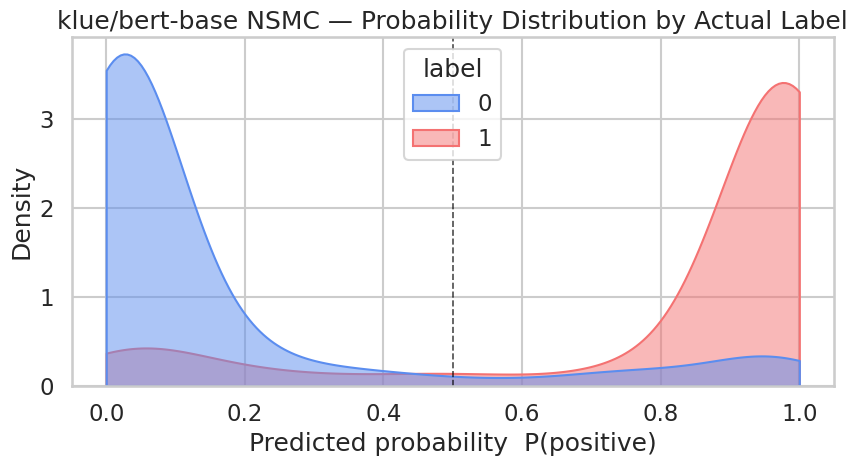
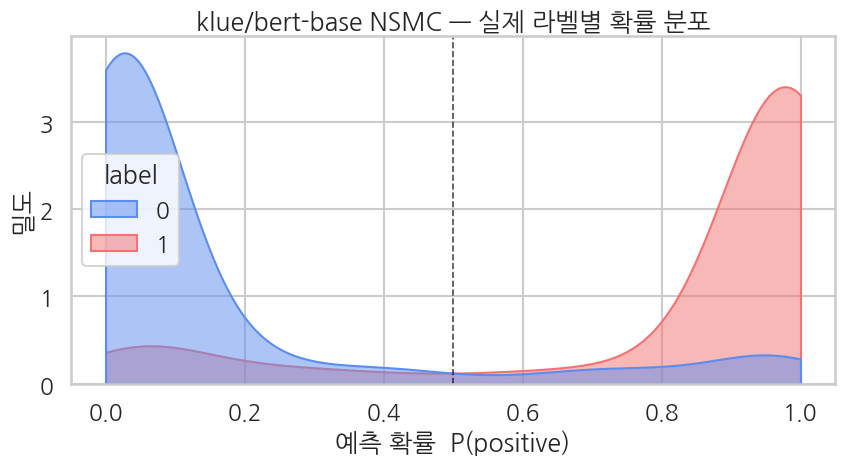
Ch 15 WikiDocs 변환 — executed 한글 plot 재생성
Claude-Session: https://claude.ai/code/session_01WacYaM89hZLnSLh4o6sjrA

diff --git a/pages/15-ko_binary-practice.md b/pages/15-ko_binary-practice.md
@@ -27,6 +27,13 @@ from sklearn.metrics import (
     classification_report, roc_auc_score,
 )
 
+# matplotlib 한글 폰트 (Colab — NanumGothic). plot 의 한국어가 □ 로 깨지지 않게.
+import matplotlib.pyplot as plt, matplotlib.font_manager as fm, subprocess, os
+_fp = "/usr/share/fonts/truetype/nanum/NanumGothic.ttf"
+if not os.path.exists(_fp):
+    subprocess.run("apt-get -qq -y install fonts-nanum", shell=True)
+fm.fontManager.addfont(_fp)
+plt.rcParams["font.family"] = "NanumGothic"
 plt.rcParams["axes.unicode_minus"] = False
 
 print(f"PyTorch:        {torch.__version__}")
@@ -52,7 +59,7 @@ GPU:             Tesla T4
 **▶ 실행 결과**
 
 ```text
-Wed Jun 17 21:44:50 2026       
+Mon Jun 22 03:56:11 2026       
 +-----------------------------------------------------------------------------------------+
 | NVIDIA-SMI 580.82.07              Driver Version: 580.82.07      CUDA Version: 13.0     |
 +-----------------------------------------+------------------------+----------------------+
@@ -61,7 +68,7 @@ Wed Jun 17 21:44:50 2026
 |                                         |                        |               MIG M. |
 |=========================================+========================+======================|
 |   0  Tesla T4                       Off |   00000000:00:04.0 Off |                    0 |
-| N/A   32C    P8             11W /   70W |       3MiB /  15360MiB |      0%      Default |
+| N/A   44C    P8             13W /   70W |       3MiB /  15360MiB |      0%      Default |
 |                                         |                        |                  N/A |
 +-----------------------------------------+------------------------+----------------------+
 
@@ -73,8 +80,6 @@ Wed Jun 17 21:44:50 2026
 |  No running processes found                                                             |
 +-----------------------------------------------------------------------------------------+
 ```
-
-같은 한국어 문장을 한국어로 학습한 `klue/bert-base`와 영어 위주의 `distilbert-base-uncased`로 각각 토큰화해 결과를 나란히 비교합니다. 토큰 개수와 끊기는 단위를 보면 어느 토크나이저가 한국어를 의미 단위에 가깝게 쪼개는지 한눈에 드러납니다. 마지막에는 두 토크나이저의 단어 사전 크기도 함께 출력합니다.
 
 ```python
 tokenizer_ko = AutoTokenizer.from_pretrained("klue/bert-base")
@@ -117,12 +122,6 @@ klue/bert-base vocab size:        32,000
 distilbert-base-uncased vocab:    30,522
 ```
 
-**결과 해석**
-
-한국어로 학습된 `klue/bert-base`는 "재미있" + "##었" + "##어요"처럼 의미 단위에 가깝게 6-8개 토큰으로 끊지만, 영어 위주의 `distilbert-en`은 한글 음절을 자모 단위로 분해해 같은 문장을 14-26개 토큰으로 파편화하고 `[UNK]`까지 흘립니다. 한국어에서는 그 언어로 학습된 토크나이저를 쓰는 것이 토큰 효율과 표현력 모두에서 결정적임을 보여 줍니다.
-
-실습에 쓸 NSMC(네이버 영화 리뷰) 데이터를 GitHub에서 직접 내려받아 train/test로 읽어 들입니다. 본문이 비어 있는 행은 미리 제거하고, 전체 행 수와 라벨 분포, 첫 3개 샘플을 출력해 데이터의 모양과 균형을 확인합니다.
-
 ```python
 TRAIN_URL = "https://raw.githubusercontent.com/e9t/nsmc/master/ratings_train.txt"
 TEST_URL  = "https://raw.githubusercontent.com/e9t/nsmc/master/ratings_test.txt"
@@ -151,12 +150,6 @@ first 3 rows of train:
   label=1  text=흠...포스터보고 초딩영화줄....오버연기조차 가볍지 않구나
   label=0  text=너무재밓었다그래서보는것을추천한다
 ```
-
-**결과 해석**
-
-NSMC는 부정(0) 75,170건과 긍정(1) 74,825건으로 거의 1:1로 균형 잡힌 영화 리뷰 데이터라, 정확도 지표를 그대로 신뢰할 수 있습니다.
-
-T4에서 30분 안에 끝나도록 전체 데이터에서 train 5,000건과 eval 1,000건만 고정 시드로 뽑아 냅니다. 이어서 `datasets.Dataset` 형태로 바꾸고, 본문 컬럼 이름을 `transformers`가 기대하는 `text`로 통일합니다. 샘플 후에도 양성 비율이 거의 50%로 유지되는지 확인하는 것이 핵심입니다.
 
 ```python
 # 5K train / 1K eval 로 subsample (T4 30분 룰)
@@ -194,8 +187,6 @@ Dataset({
 })
 ```
 
-앞서 로드한 한국어 토크나이저로 모든 리뷰를 토큰 ID로 변환하고, 라벨을 정수형으로 정리해 모델 입력 형태를 갖춥니다. `max_length=128`로 잘라 길이를 제한하며, 변환이 끝난 뒤 토큰 길이의 평균·중앙값·최댓값을 찍어 자를 만큼 긴 리뷰가 있는지 살펴봅니다.
-
 ```python
 tokenizer = tokenizer_ko   # klue/bert-base (위에서 로드)
 
@@ -227,12 +218,6 @@ First sample label: 1  (int scalar 0=neg / 1=pos)
 Token length stats — mean: 21.9, median: 17, max: 117
 ```
 
-**결과 해석**
-
-토큰 길이가 평균 21.9개, 중앙값 17개로 짧고 최대도 117개라 `max_length=128`에서 사실상 잘리는 리뷰가 거의 없어, 영화평이라는 짧은 텍스트 특성과 설정이 잘 맞습니다.
-
-`klue/bert-base`에 2차원 분류 헤드를 얹어 이진 분류 모델을 만듭니다. `problem_type="single_label_classification"`을 지정하면 `Trainer`가 자동으로 `CrossEntropyLoss`를 쓰며, `id2label`/`label2id`로 0과 1에 negative/positive 이름을 붙입니다. 출력에서 분류 헤드(classifier)가 새로 초기화되었다는 메시지와 파라미터 수, 은닉 차원·사전 크기를 확인합니다.
-
 ```python
 model = AutoModelForSequenceClassification.from_pretrained(
     "klue/bert-base",
@@ -262,15 +247,15 @@ print(f"vocab size V:         {model.config.vocab_size:,}")
 [transformers] BertForSequenceClassification LOAD REPORT from: klue/bert-base
 Key                                        | Status     | 
 -------------------------------------------+------------+-
-cls.predictions.transform.dense.weight     | UNEXPECTED | 
 cls.predictions.transform.dense.bias       | UNEXPECTED | 
-cls.seq_relationship.bias                  | UNEXPECTED | 
-cls.predictions.transform.LayerNorm.bias   | UNEXPECTED | 
 cls.predictions.bias                       | UNEXPECTED | 
-cls.seq_relationship.weight                | UNEXPECTED | 
+cls.predictions.transform.dense.weight     | UNEXPECTED | 
+cls.predictions.transform.LayerNorm.bias   | UNEXPECTED | 
 cls.predictions.transform.LayerNorm.weight | UNEXPECTED | 
-classifier.weight                          | MISSING    | 
+cls.seq_relationship.weight                | UNEXPECTED | 
+cls.seq_relationship.bias                  | UNEXPECTED | 
 classifier.bias                            | MISSING    | 
+classifier.weight                          | MISSING    | 
 
 Notes:
 - UNEXPECTED:	can be ignored when loading from different task/architecture; not ok if you expect identical arch.
@@ -290,7 +275,7 @@ vocab size V:         32,000
 **▶ 실행 결과**
 
 ```text
-Wed Jun 17 21:45:11 2026       
+Mon Jun 22 03:56:30 2026       
 +-----------------------------------------------------------------------------------------+
 | NVIDIA-SMI 580.82.07              Driver Version: 580.82.07      CUDA Version: 13.0     |
 +-----------------------------------------+------------------------+----------------------+
@@ -299,7 +284,7 @@ Wed Jun 17 21:45:11 2026
 |                                         |                        |               MIG M. |
 |=========================================+========================+======================|
 |   0  Tesla T4                       Off |   00000000:00:04.0 Off |                    0 |
-| N/A   33C    P8             12W /   70W |       3MiB /  15360MiB |      0%      Default |
+| N/A   43C    P8             13W /   70W |       3MiB /  15360MiB |      0%      Default |
 |                                         |                        |                  N/A |
 +-----------------------------------------+------------------------+----------------------+
 
@@ -311,8 +296,6 @@ Wed Jun 17 21:45:11 2026
 |  No running processes found                                                             |
 +-----------------------------------------------------------------------------------------+
 ```
-
-평가 때 호출될 지표 계산 함수를 정의합니다. 모델이 내놓는 2차원 로짓을 softmax로 확률로 바꾼 뒤, 클래스 1 확률과 argmax 예측을 구해 정확도·정밀도·재현율·F1과 AUC까지 한 번에 반환합니다. AUC는 확률값을, 나머지 지표는 예측 라벨을 쓴다는 점을 눈여겨보세요.
 
 ```python
 def compute_metrics(eval_pred):
@@ -332,8 +315,6 @@ def compute_metrics(eval_pred):
         "auc":       float(roc_auc_score(labels, probs)),
     }
 ```
-
-학습 설정을 `TrainingArguments`에 모아 담고 `Trainer`를 구성한 뒤 실제 학습을 돌립니다. T4 제약에 맞춰 2 에폭·배치 16·`fp16=True`로 잡고, 매 에폭마다 평가하도록 설정합니다. 학습이 끝나면 평균 train loss를 출력해 수렴 여부를 가늠합니다.
 
 ```python
 training_args = TrainingArguments(
@@ -367,12 +348,8 @@ print(f"\nTraining done — mean train loss: {train_result.training_loss:.4f}")
 
 ```text
 <IPython.core.display.HTML object>
-Training done — mean train loss: 0.3008
+Training done — mean train loss: 0.2939
 ```
-
-**결과 해석**
-
-2 에폭 학습 후 평균 train loss가 0.30까지 내려가, 한국어 데이터에서도 BERT 이진 분류가 안정적으로 수렴함을 보여 줍니다.
 
 ```python
 !nvidia-smi
@@ -381,7 +358,7 @@ Training done — mean train loss: 0.3008
 **▶ 실행 결과**
 
 ```text
-Wed Jun 17 21:46:00 2026       
+Mon Jun 22 03:57:18 2026       
 +-----------------------------------------------------------------------------------------+
 | NVIDIA-SMI 580.82.07              Driver Version: 580.82.07      CUDA Version: 13.0     |
 +-----------------------------------------+------------------------+----------------------+
@@ -390,7 +367,7 @@ Wed Jun 17 21:46:00 2026
 |                                         |                        |               MIG M. |
 |=========================================+========================+======================|
 |   0  Tesla T4                       Off |   00000000:00:04.0 Off |                    0 |
-| N/A   54C    P0             32W /   70W |    2627MiB /  15360MiB |     79%      Default |
+| N/A   62C    P0             61W /   70W |    2627MiB /  15360MiB |     55%      Default |
 |                                         |                        |                  N/A |
 +-----------------------------------------+------------------------+----------------------+
 
@@ -399,11 +376,9 @@ Wed Jun 17 21:46:00 2026
 |  GPU   GI   CI              PID   Type   Process name                        GPU Memory |
 |        ID   ID                                                               Usage      |
 |=========================================================================================|
-|    0   N/A  N/A            8636      C   /usr/bin/python3                       2624MiB |
+|    0   N/A  N/A             661      C   /usr/bin/python3                       2624MiB |
 +-----------------------------------------------------------------------------------------+
 ```
-
-학습이 끝난 모델을 평가 데이터에 적용해 앞서 정의한 지표들을 한 번에 측정합니다. `eval_`로 시작하는 항목만 골라 출력하므로, 한국어 데이터에서의 정확도·F1·AUC를 곧바로 확인할 수 있습니다.
 
 ```python
 eval_metrics = trainer.evaluate()
@@ -419,19 +394,13 @@ for k, v in eval_metrics.items():
 <IPython.core.display.HTML object>
 <IPython.core.display.HTML object>
 klue/bert-base NSMC binary — evaluation:
-             eval_loss: 0.3995
+             eval_loss: 0.3887
          eval_accuracy: 0.8640
         eval_precision: 0.8773
            eval_recall: 0.8457
                eval_f1: 0.8612
-              eval_auc: 0.9248
+              eval_auc: 0.9292
 ```
-
-**결과 해석**
-
-5,000건만 학습했는데도 정확도 0.864, F1 0.861, AUC 0.925로, 영어 DistilBERT 챕터에 견줄 만한 성능을 한국어에서도 그대로 재현합니다. precision 0.877과 recall 0.846이 균형 있게 높아 한쪽으로 치우치지 않은 분류기임을 알 수 있습니다.
-
-평가셋 전체에 대해 예측을 다시 받아, 2차원 로짓을 softmax 확률로 바꾸고 `z = z1 - z0`로 단일 로짓을 만들어 둡니다. 이렇게 정리한 확률과 로짓의 분포 범위, 그리고 양성 예측 비율을 출력해 모델이 얼마나 확신을 갖고 양극단으로 판단하는지 살펴봅니다.
 
 ```python
 preds_output = trainer.predict(eval_tok)
@@ -454,16 +423,10 @@ print(f"positive prediction rate (prob >= 0.5): {(probs >= 0.5).mean():.1%}")
 ```text
 <IPython.core.display.HTML object>
 logits2 (raw)  shape: (1000, 2)
-logit z = z1-z0 range: [-5.83, 5.09]
-prob range:           [0.0029, 0.9939]
+logit z = z1-z0 range: [-5.71, 5.19]
+prob range:           [0.0033, 0.9944]
 positive prediction rate (prob >= 0.5): 48.1%
 ```
-
-**결과 해석**
-
-확률이 0.003부터 0.994까지 양극단으로 넓게 퍼지고 logit z도 -5.83-+5.09 범위를 채워, 모델이 어중간하게 0.5 근처에 머무르지 않고 확신을 갖고 판단함을 보여 줍니다. 양성 예측 비율 48.1%는 실제 양성 비율 49.9%와 가까워 임계값 0.5가 적절합니다.
-
-negative와 positive 두 클래스 각각의 정밀도·재현율·F1을 표로 정리해 출력합니다. 전체 정확도뿐 아니라 클래스별 성능을 따로 보면, 모델이 어느 한쪽 감성으로 치우치지 않았는지 확인할 수 있습니다.
 
 ```python
 # 분류 리포트
@@ -487,14 +450,8 @@ print(classification_report(
 weighted avg     0.8645    0.8640    0.8640      1000
 ```
 
-**결과 해석**
-
-부정과 긍정 두 클래스의 F1이 0.867과 0.861로 거의 같아, 어느 한쪽 감성에 편향되지 않고 양쪽을 고르게 잘 맞춥니다.
-
-실제 라벨별로 예측 확률의 분포를 밀도 곡선으로 그립니다. 부정·긍정 두 그룹의 봉우리가 임계선 0.5를 기준으로 얼마나 깔끔하게 갈라지는지, 그리고 0.5 부근에서 두 분포가 겹치는 경계 사례가 얼마나 되는지 시각적으로 확인합니다.
-
 ```python
-sns.set_theme(style="whitegrid", context="talk")
+sns.set_theme(style="whitegrid", context="talk", font="NanumGothic", rc={"axes.unicode_minus": False})
 PAL = {0: "#5B8DEF", 1: "#F47272"}
 df_eval = pd.DataFrame({"prob": probs, "logit": logits, "label": labels})
 
@@ -505,9 +462,9 @@ sns.kdeplot(
     palette=PAL, clip=(0, 1), ax=ax,
 )
 ax.axvline(0.5, color="black", lw=1.2, ls="--", alpha=0.7)
-ax.set_title("klue/bert-base NSMC — Probability Distribution by Actual Label")
-ax.set_xlabel("Predicted probability  P(positive)")
-ax.set_ylabel("Density")
+ax.set_title("klue/bert-base NSMC — 실제 라벨별 확률 분포")
+ax.set_xlabel("예측 확률  P(positive)")
+ax.set_ylabel("밀도")
 plt.tight_layout()
 plt.show()
 ```
@@ -515,12 +472,6 @@ plt.show()
 **▶ 실행 결과**
 
 ![output](../assets/15-ko_binary-out1.png)
-
-**결과 해석**
-
-실제 부정 리뷰는 확률 0 근처에, 긍정 리뷰는 1 근처에 봉우리가 쏠려 두 분포가 임계선 0.5를 기준으로 깔끔하게 갈라집니다. 0.5 부근에 겹치는 꼬리가 곧 모델이 망설이는 소수의 경계 사례입니다.
-
-이번에는 확률 대신 `z = z1 - z0` 로짓을 가로축에 두고 같은 분포를 그립니다. sigmoid로 0-1 구간에 눌러 담기 전의 원본 신호가 0을 경계로 두 클래스를 어떻게 가르는지, 확률 그림을 양옆으로 펼친 모습으로 비교해 봅니다.
 
 ```python
 fig, ax = plt.subplots(figsize=(9, 5))
@@ -530,9 +481,9 @@ sns.kdeplot(
     palette=PAL, ax=ax,
 )
 ax.axvline(0.0, color="black", lw=1.2, ls="--", alpha=0.7)
-ax.set_title("klue/bert-base NSMC — Logit Distribution  (z = z1 − z0)")
-ax.set_xlabel("Logit  z = z1 − z0")
-ax.set_ylabel("Density")
+ax.set_title("klue/bert-base NSMC — logit 분포  (z = z1 − z0)")
+ax.set_xlabel("logit  z = z1 − z0")
+ax.set_ylabel("밀도")
 plt.tight_layout()
 plt.show()
 ```
@@ -540,12 +491,6 @@ plt.show()
 **▶ 실행 결과**
 
 ![output](../assets/15-ko_binary-out2.png)
-
-**결과 해석**
-
-logit z = z1 - z0로 펼친 분포는 확률 그림을 양옆으로 늘여 놓은 모습으로, 0을 기준으로 음수 쪽에 부정, 양수 쪽에 긍정이 분리됩니다. sigmoid가 z를 0-1 확률로 눌러 담기 전의 원본 신호가 이미 두 클래스를 잘 가르고 있음을 보여 줍니다.
-
-예측 확률을 기준으로 가장 자신 있게 긍정으로 본 리뷰, 가장 자신 있게 부정으로 본 리뷰, 그리고 0.5에 가장 가까워 가장 망설인 리뷰를 한 건씩 뽑아 실제 문장과 함께 보여 줍니다. 확신의 정도가 문장의 감성 명료도와 어떻게 이어지는지 직접 눈으로 확인하기 위한 단계입니다.
 
 ```python
 # 가장 자신있게 positive (probs 최대), 가장 자신있게 negative (probs 최소),
@@ -586,29 +531,25 @@ sample #580  (most confident positive)
 ==============================================================================
 text:        아 최고.. 지금 수능 끝나고 보고 있어요ㅠㅠ 현실적인 30대의 사랑이야기~
 true label:  1  (positive)
-prob(pos):   0.9939
-logit z:     +5.09
+prob(pos):   0.9944
+logit z:     +5.19
 prediction:  1 (positive)    match: ✓
 
 ==============================================================================
-sample #368  (most confident negative)
+sample #169  (most confident negative)
 ==============================================================================
-text:        장난하는것도 아니고...정말 별로다..예전의 주온을 전혀 못 따라가는 졸작
+text:        한마디로노잼 재미없음
 true label:  0  (negative)
-prob(pos):   0.0029
-logit z:     -5.83
+prob(pos):   0.0033
+logit z:     -5.71
 prediction:  0 (negative)    match: ✓
 
 ==============================================================================
-sample #970  (most uncertain (prob ≈ 0.5))
+sample #978  (most uncertain (prob ≈ 0.5))
 ==============================================================================
-text:        이게 30년전 영화라니 최곱니다
-true label:  1  (positive)
-prob(pos):   0.5027
-logit z:     +0.01
-prediction:  1 (positive)    match: ✓
+text:        영화보다가 진짜 기도드릴뻔했다. '제발 끝나게해주세요'라고..
+true label:  0  (negative)
+prob(pos):   0.5040
+logit z:     +0.02
+prediction:  1 (positive)    match: ✗
 ```
-
-**결과 해석**
-
-확신이 높은 두 사례("최고", "졸작")는 감성어가 또렷해 확률이 0.99와 0.003으로 양극단을 찍는 반면, 가장 망설인 "이게 30년전 영화라니 최곱니다"는 칭찬과 의외성이 뒤섞여 확률이 0.5027로 경계에 걸칩니다. 모델의 자신감이 곧 문장의 감성 명료도를 반영함을 잘 보여 줍니다.

diff --git a/TOC.md b/TOC.md
@@ -58,7 +58,7 @@
   * [14-1. 실습](pages/14-auxiliary_loss-practice.md)
   * [14-2. 정리와 FAQ](pages/14-auxiliary_loss-wrapup.md)
 * [15. 한국어 BERT 이진 분류 (Korean Binary Classification)](pages/15-ko_binary.md)
-  * [15-1. 실습: klue/bert-base 한국어 이진 분류](pages/15-ko_binary-practice.md)
+  * [15-1. 실습](pages/15-ko_binary-practice.md)
   * [15-2. 정리와 FAQ](pages/15-ko_binary-wrapup.md)
 * [16. 한국어 BERT 다중 클래스 분류 (Korean Multi-class Classification)](pages/16-ko_multiclass.md)
   * [16-1. 실습: 한국어 뉴스 7분류](pages/16-ko_multiclass-practice.md)

diff --git a/pages/15-ko_binary.md b/pages/15-ko_binary.md
@@ -150,5 +150,4 @@ Ch 11 의 평가 패턴 그대로 — 2차원 logit 에서 softmax → 클래스
 
 ## 이 장의 구성
 
-- [15-1. 실습](15-ko_binary-practice.md)
-- [15-2. 정리와 FAQ](15-ko_binary-wrapup.md)
+[[SubPages]]
